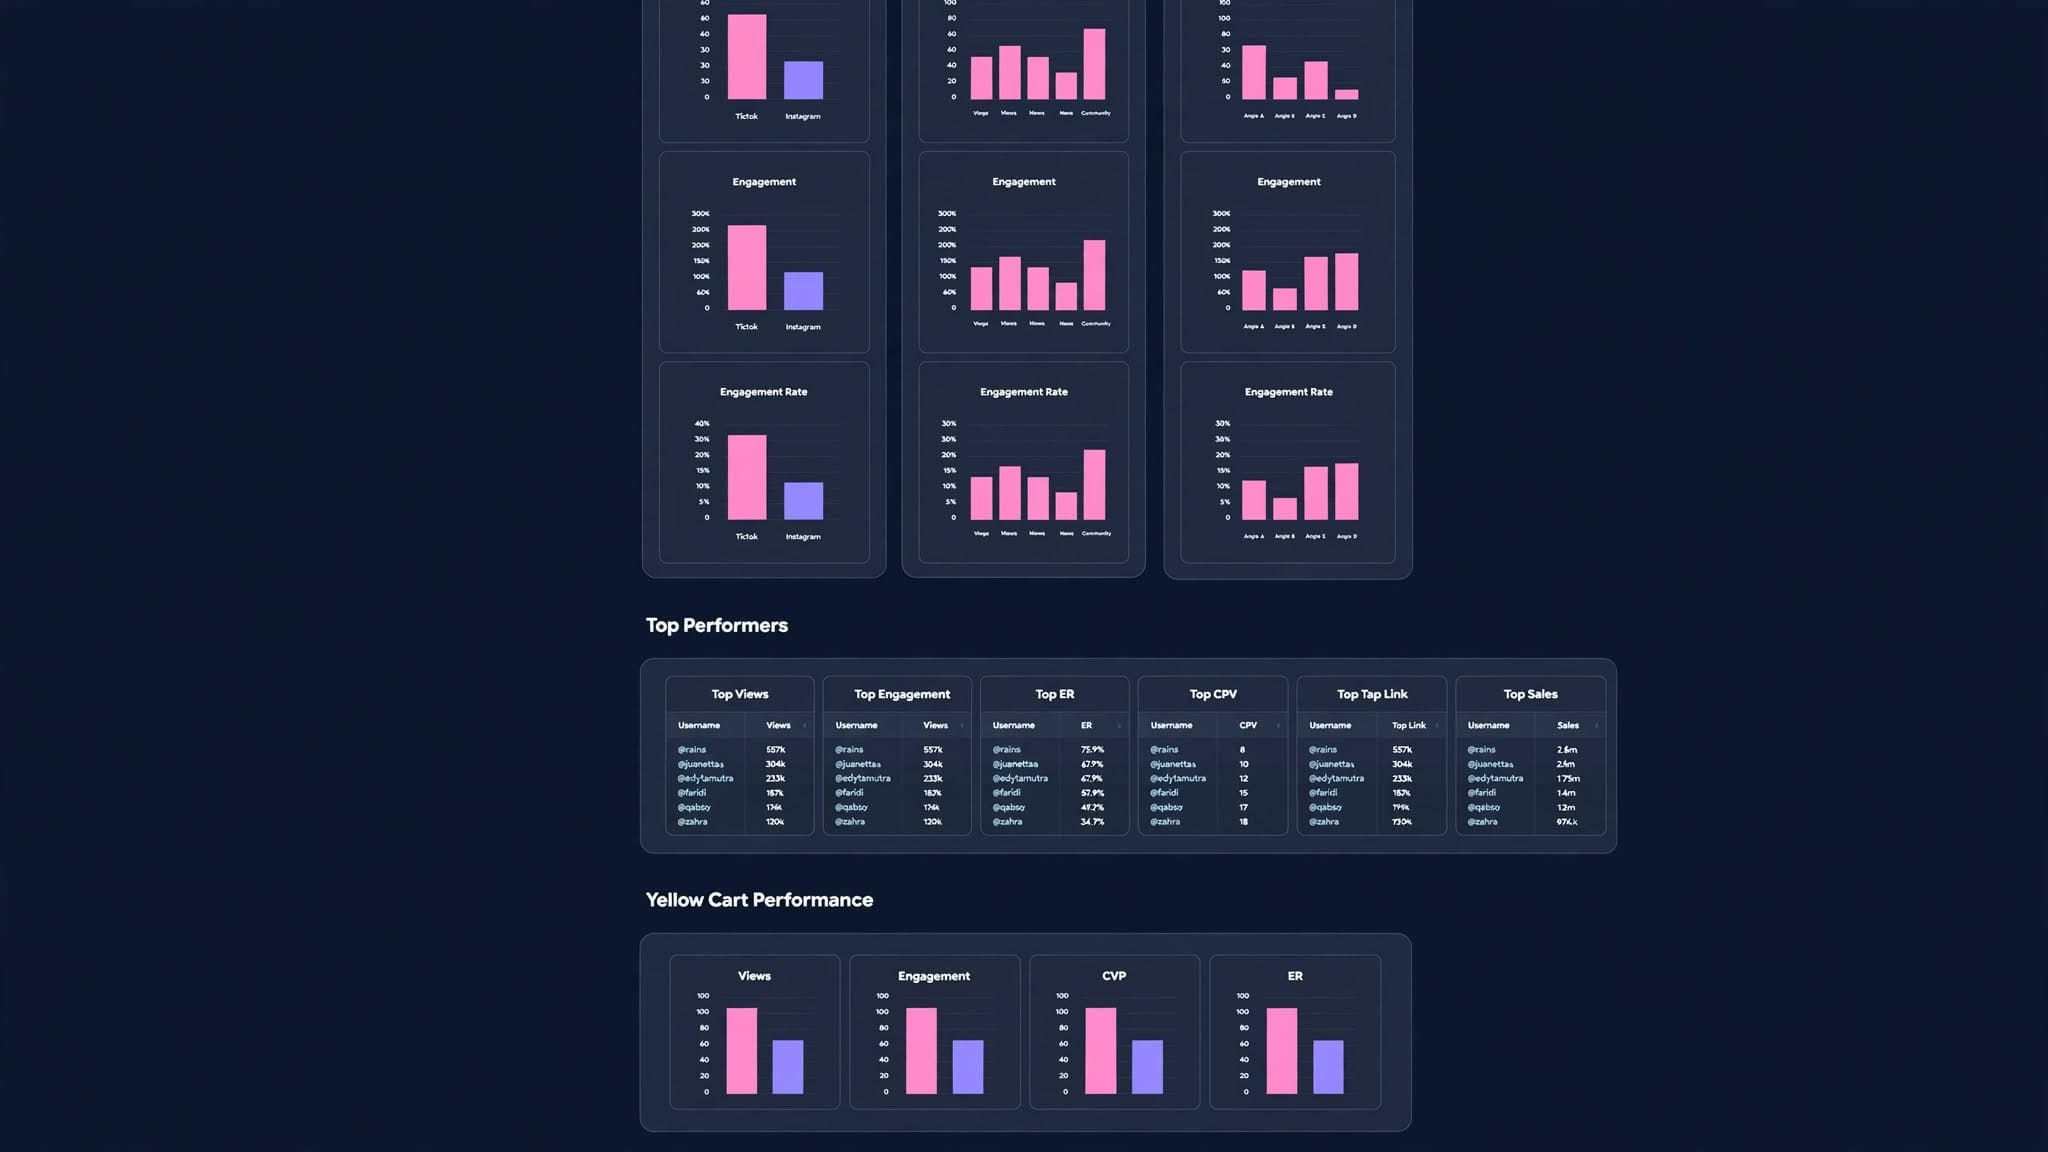
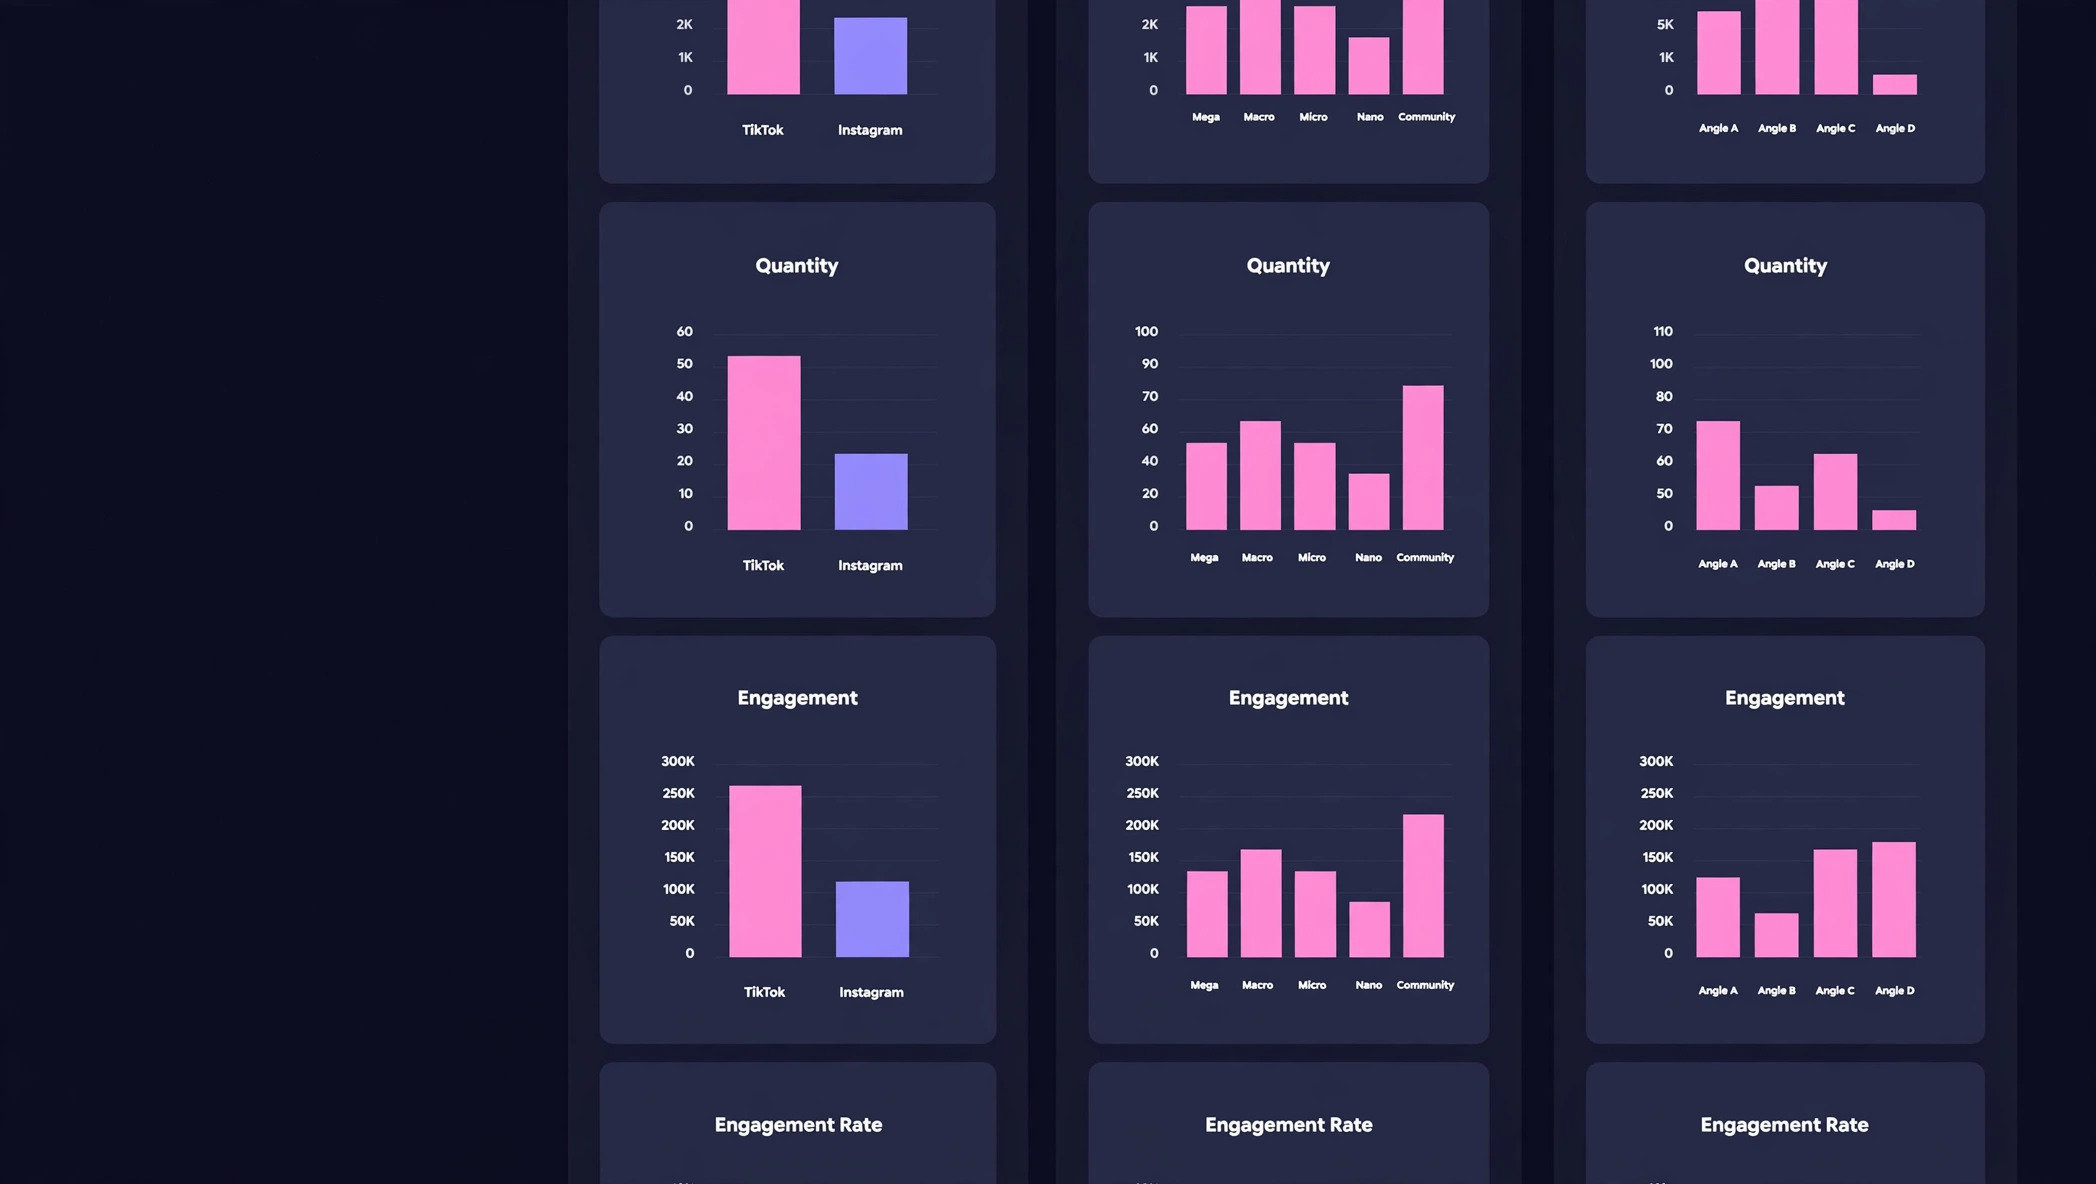
added new portfolio

diff --git a/index.html b/index.html
@@ -225,7 +225,7 @@
                 <div class="hero-showcase">
                     <!-- Dashboard -->
                     <div class="dashboard-frame">
-                        <img loading="lazy" src="images/portfolio/img-kol-dashboard.jpg">
+                        <img loading="lazy" src="images/portfolio/eventori-web-home.png">
                     </div>
 
                     <!-- Phone -->
@@ -235,7 +235,7 @@
 
                     <!-- Laptop -->
                     <div class="laptop-frame">
-                        <img loading="lazy" src="images/portfolio/img-pjci-home.jpg">
+                        <img loading="lazy" src="images/tiketboxhome.png">
                     </div>
 
                 </div>
@@ -750,9 +750,9 @@
                     data-desc="KOL Dashboard merupakan platform analytics dan campaign monitoring yang dikembangkan untuk membantu perusahaan dalam mengelola aktivitas influencer marketing secara terpusat. 
                     Sistem ini mengintegrasikan data performa konten dari berbagai platform media sosial seperti TikTok, Instagram, Threads, dan X ke dalam satu dashboard yang mudah digunakan. 
                     Dashboard menyediakan visualisasi data secara real-time, mulai dari total konten, views, engagement, engagement rate, hingga performa setiap KOL dan campaign."
-                    data-images='["images/portfolio/img-kol-dashboard.jpg", "images/portfolio/img-kol-dashboard-campaign.jpg", "images/portfolio/img-kol-dashboard-bottom.jpg"]'>
+                    data-images='["images/portfolio/img-kol-dashboard.jpg", "images/portfolio/img-kol-dashboard-campaign.jpg", "images/portfolio/img-kol-dashboard-bottom.jpg", "images/portfolio/img-kol-dashboard-bottom-1.jpg"]'>
                     <div class="portfolio-card-top">
-                        <span class="portfolio-card-tag">DASHBOARD ANALYTICS</span>
+                        <span class="portfolio-card-tag">Dashboard Analytics</span>
                     </div>
                     <div class="portfolio-card-image-container">
                         <img loading="lazy" src="images/portfolio/img-kol-dashboard.jpg" alt="Dashboard Analytics"
@@ -782,14 +782,14 @@
                 </div>
 
                 <!-- Portfolio Card 2 -->
-                <div class="portfolio-card" data-title="Private Jet Charter Indonesia"
-                    data-desc="Perusahaan jasa penerbangan yang menyediakan dan mengembangkan industri penerbangan bisnis dan penerbangan umum di Asia Pasifik. Didirikan pada tahun 2020, kami mengembangkan sistem berdasarkan standar penerbangan bisnis internasional."
-                    data-images='["images/portfolio/img-pjci-home.jpg", "images/portfolio/img-pjci-home-1.jpg", "images/portfolio/img-pjci-home-2.jpg"]'>
+                <div class="portfolio-card" data-title="Eventori"
+                    data-desc="Eventori adalah platform yang memfasilitasi bertumbuhnya ekosistem dunia hiburan Indonesia. Melalui Eventori, seluruh pelaku bisnis hiburan dapat bertemu, bertukar informasi, dan melakukan kerja sama bisnis untuk terus menumbuhkan ekonomi kreatif nasional."
+                    data-images='["images/portfolio/eventori-web-home.png", "images/portfolio/eventori-web-home-1.png", "images/portfolio/eventori-event.png", "images/portfolio/eventori-event-1.png"]'>
                     <div class="portfolio-card-top">
-                        <span class="portfolio-card-tag">CORPORATE WEBSITE</span>
+                        <span class="portfolio-card-tag">Media & Entertainment Super App</span>
                     </div>
                     <div class="portfolio-card-image-container">
-                        <img loading="lazy" src="images/portfolio/img-pjci-home.jpg" alt="Private Jet Charter Indonesia"
+                        <img loading="lazy" src="images/portfolio/eventori-web-home.png" alt="Eventori"
                             class="portfolio-card-img">
                     </div>
                     <div class="portfolio-card-content">
@@ -808,11 +808,12 @@
                             </svg>
                         </div>
                         <div class="portfolio-card-info">
-                            <h3 class="portfolio-card-title">Private Jet Charter Indonesia</h3>
+                            <h3 class="portfolio-card-title">Eventori</h3>
                             <p class="portfolio-card-desc">
-                                adalah perusahaan jasa penerbangan yang menyediakan dan mengembangkan industri
-                                penerbangan bisnis dan penerbangan umum di Asia Pasifik, yang berbasis di Jakarta –
-                                Indonesia.
+                                Eventori adalah platform yang memfasilitasi bertumbuhnya ekosistem dunia hiburan
+                                Indonesia. Melalui Eventori, seluruh pelaku bisnis hiburan dapat bertemu, bertukar
+                                informasi, dan melakukan kerja sama bisnis untuk terus menumbuhkan ekonomi kreatif
+                                nasional.
                             </p>
                         </div>
                         <!-- <span class="portfolio-card-year">2026</span> -->
@@ -822,17 +823,15 @@
                     </div>
                 </div>
 
-
                 <!-- Portfolio Card 3 -->
-                <div class="portfolio-card" data-title="GymForce – Gym Management System"
-                    data-desc="GymForce merupakan platform manajemen gym berbasis web yang dirancang untuk membantu pemilik dan pengelola pusat kebugaran dalam mengotomatisasi operasional bisnis mereka. Sistem ini menyediakan dashboard admin yang modern dan aplikasi berbasis Progressive Web App (PWA) untuk member sehingga dapat diakses tanpa instalasi aplikasi tambahan."
-                    data-images='["images/portfolio/img-gym-dashboard.jpeg", "images/portfolio/img-gym-finance.jpeg", "images/portfolio/img-gym-pos.jpeg"]'>
+                <div class="portfolio-card" data-title="Tiketbox"
+                    data-desc="Sistem penjualan dan validasi tiket terdistribusi yang dirancang menangani lonjakan trafik mendadak (*flash sale*) tanpa *double-booking* tiket atau sistem kolaps."
+                    data-images='["images/tiketboxhome.png", "images/tiketboxhome-1.png"]'>
                     <div class="portfolio-card-top">
-                        <span class="portfolio-card-tag">GYM MANAGEMENT SYSTEM</span>
+                        <span class="portfolio-card-tag">High-Concurrency E-Commerce</span>
                     </div>
                     <div class="portfolio-card-image-container">
-                        <img loading="lazy" src="images/portfolio/img-gym-dashboard.jpeg" alt="Aplikasi Mobile"
-                            class="portfolio-card-img">
+                        <img loading="lazy" src="images/tiketboxhome.png" alt="Tiketbox" class="portfolio-card-img">
                     </div>
                     <div class="portfolio-card-content">
                         <div class="portfolio-card-icon">
@@ -852,9 +851,10 @@
                             </svg>
                         </div>
                         <div class="portfolio-card-info">
-                            <h3 class="portfolio-card-title">Gym Management System</h3>
-                            <p class="portfolio-card-desc">Platform manajemen gym berbasis PWA yang membantu mengelola
-                                member, operasional, dan administrasi gym secara digital.</p>
+                            <h3 class="portfolio-card-title">Tiketbox</h3>
+                            <p class="portfolio-card-desc">Sistem penjualan dan validasi tiket terdistribusi yang
+                                dirancang menangani lonjakan trafik mendadak (*flash sale*) tanpa *double-booking* tiket
+                                atau sistem kolaps.</p>
                         </div>
                         <!-- <span class="portfolio-card-year">2026</span> -->
                     </div>

diff --git a/portfolio.html b/portfolio.html
@@ -472,6 +472,28 @@
                 <div class="portfolio-item" data-category="web">
                     <div class="portfolio-item-image portfolio-branding-bg">
                         <div class="portfolio-dashboard-preview">
+                            <img loading="lazy" src="images/portfolio/eventori-web-home.png" alt="Eventori"
+                                class="mobile-screen-1 portfolio-image-clickable"
+                                data-description="Eventori adalah platform yang memfasilitasi bertumbuhnya ekosistem dunia hiburan Indonesia. Melalui Eventori, seluruh pelaku bisnis hiburan dapat bertemu, bertukar informasi, dan melakukan kerja sama bisnis untuk terus menumbuhkan ekonomi kreatif nasional.">
+                        </div>
+                    </div>
+                    <div class="portfolio-item-content">
+                        <h3 class="portfolio-item-title">Eventori</h3>
+                        <p class="portfolio-item-description">Eventori adalah platform yang memfasilitasi bertumbuhnya
+                            ekosistem dunia hiburan Indonesia. Melalui Eventori, seluruh pelaku bisnis hiburan dapat
+                            bertemu, bertukar informasi, dan melakukan kerja sama bisnis untuk terus menumbuhkan ekonomi
+                            kreatif nasional.<a href="https://eventori.id/" target="_blank">Lihat Website</a></p>
+                        </br>
+                        <p class="portfolio-item-description">
+                            <strong>Tech Stack:</strong> NodeJS, ReactJS, Go, PostgreSQL, GCS<br>
+                            <!-- <strong>Role:</strong> Fullstack Developer, Project Manager -->
+                        </p>
+                    </div>
+                </div>
+
+                <div class="portfolio-item" data-category="web">
+                    <div class="portfolio-item-image portfolio-branding-bg">
+                        <div class="portfolio-dashboard-preview">
                             <img loading="lazy" src="images/portfolio/img-kol-dashboard.jpg" alt="KOL Dashboard"
                                 class="mobile-screen-1 portfolio-image-clickable"
                                 data-description="KOL Dashboard merupakan platform analytics dan campaign monitoring yang dikembangkan untuk membantu perusahaan dalam mengelola aktivitas influencer marketing secara terpusat. 
@@ -634,7 +656,7 @@
                 <div class="portfolio-item" data-category="web">
                     <div class="portfolio-item-image portfolio-branding-bg">
                         <div class="portfolio-dashboard-preview">
-                            <img loading="lazy" src="images/tiketboxhome.jpg" alt="Tiketbox.com Portfolio"
+                            <img loading="lazy" src="images/tiketboxhome.png" alt="Tiketbox.com Portfolio"
                                 class="mobile-screen-1 portfolio-image-clickable"
                                 data-description="Tiketbox.com - Menampilkan tiker event yang sedang berlangsung kemudian menampilkan antarmuka utama dan konten unggulan.">
 

diff --git a/style.css b/style.css
@@ -650,7 +650,12 @@ img.service-icon {
 .portfolio-grid {
     display: grid;
     grid-template-columns: repeat(3, 1fr);
-    gap: 30px;
+    gap: 24px;
+}
+
+.portfolio-card {
+    min-width: 0;
+    width: 100%;
 }
 
 .portfolio-card {
